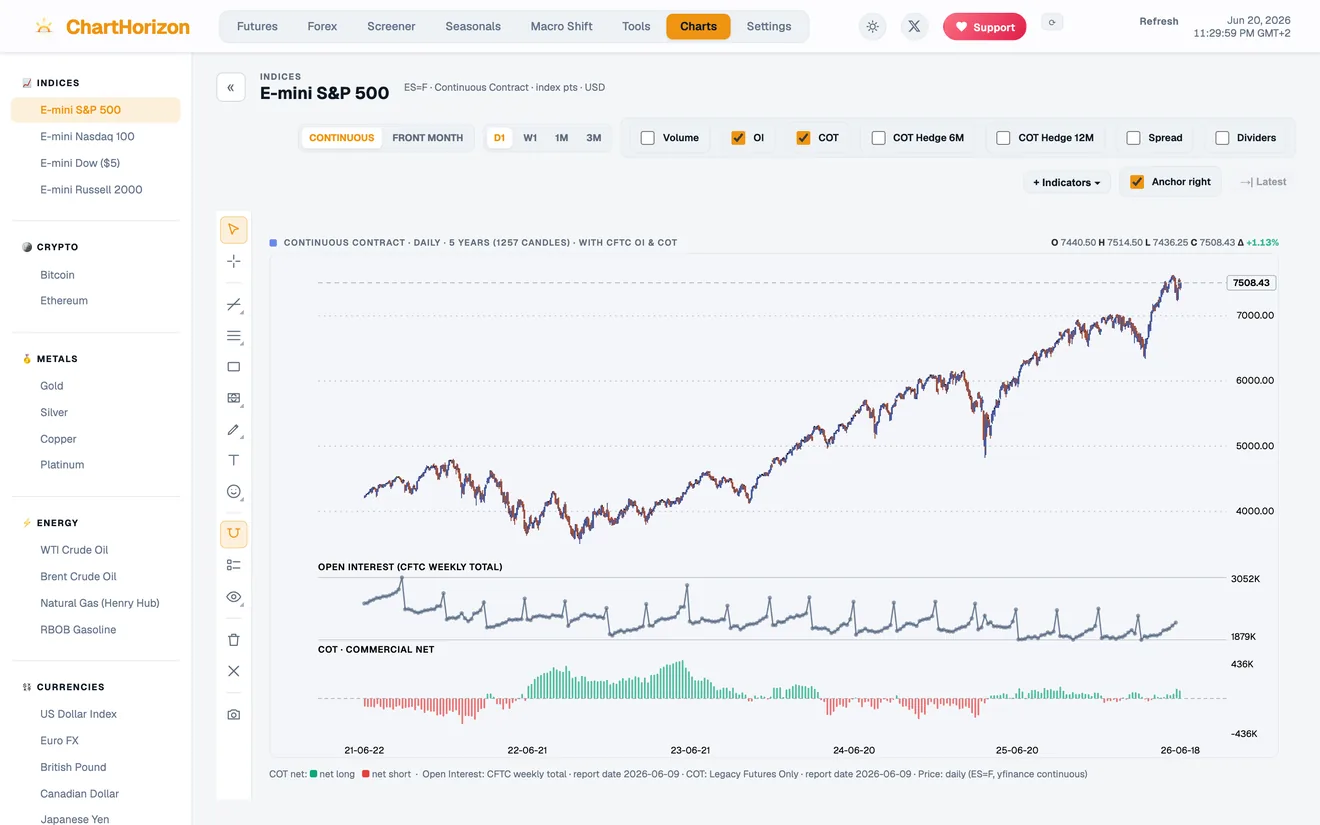
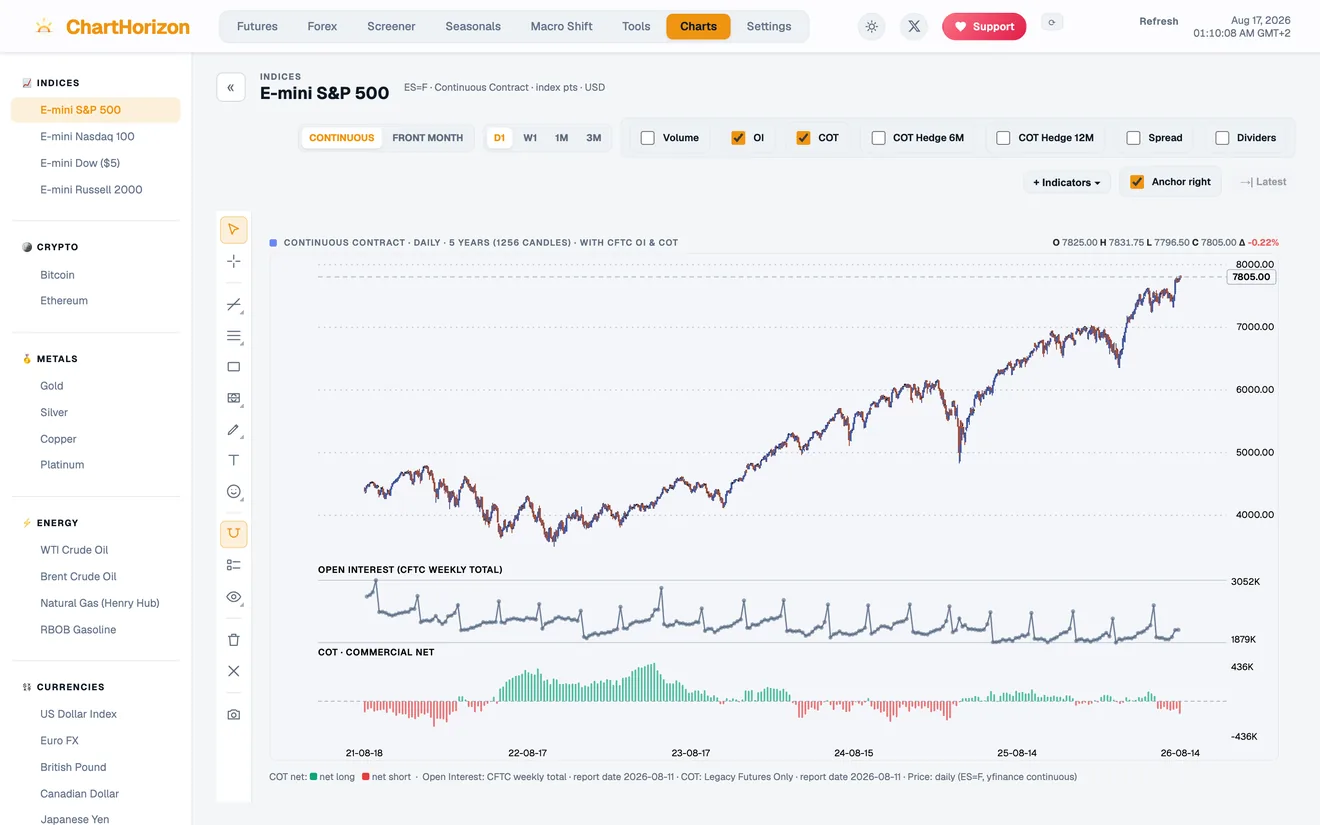
dashboard: shoot the board plates in both editions
The dark edition dimmed the /dashboard/ screenshots by 8% and called it done,
but the dashboard has a dark theme of its own — a lightened photograph of the
light app is not it. Every plate now exists twice, board-<name>.webp and
board-<name>-dark.webp, shot from the app in the theme that matches the sheet.

_includes/board.html emits both <img>s and blog.css shows one per edition.
display:none is load-bearing twice: it keeps the hidden plate out of the
accessibility tree, so the shared alt is never announced twice, and it stops
loading="lazy" from ever fetching it — a reader still downloads exactly one set,
~347 KB, near enough what the single set cost. The brightness(.92) correction
stays for post cards, which still come out of the headless export light-only.

The light set is replaced too. The old files were captured from a June build
with no watchlist rail at a different window width; pairing those with today's
dark shots would have jumped on every toggle. Both sets now come from one
session at one viewport, with the watchlist populated so the rail is product
furniture rather than an empty state, and with the cuts measured against the
layout instead of guessed — the hero and Seasonals end just below their card
(Seasonals used to float in ~280px of empty background), Screener and Macro
bleed off the edge on purpose, Macro far enough that the third chart's title
is still in frame.

Regenerate with ops/website-plates.sh in the monorepo; it shoots both editions
[…]

diff --git a/dashboard.html b/dashboard.html
@@ -64,11 +64,9 @@ dl_linux: ""            # derive from version
 
 <div class="post-body">
 
-<figure class="board board-hero">
-  <img src="{{ '/assets/dashboard/board-futures.webp' | relative_url }}" width="1800" height="1379"
-       alt="The ChartHorizon dashboard reading WTI Crude Oil — a daily candlestick chart stacked over CFTC open interest and the commercials' net position, with the full market list down the left.">
-  <figcaption>The board on one market: price, open interest and the commercials’ net, read together.</figcaption>
-</figure>
+{% include board.html hero=true plate="board-futures" w=1800 h=1174
+   alt="The ChartHorizon dashboard reading WTI Crude Oil — a daily candlestick chart stacked over CFTC open interest and the commercials' net position, with the full market list down the left."
+   caption="The board on one market: price, open interest and the commercials’ net, read together." %}
 
 <p>Every note on this paper is computed upstream, on ChartHorizon's own research
 dashboard: end-of-day futures and CFTC Commitments of Traders data, read against the four
@@ -92,44 +90,36 @@ every market, every light, on demand.</p>
 </div>
 
 <h2>Every market, every light</h2>
-<p>Forty futures markets scored on the four signals at once — season, the commercials'
-positioning, the hedging program and term structure — filterable and ranked, the whole
-desk on a single screen. It's the view that decides which market is worth a note.</p>
-<figure class="board">
-  <img src="{{ '/assets/dashboard/board-screener.webp' | relative_url }}" width="1320" height="1011" loading="lazy"
-       alt="The dashboard's Screener: a table of forty markets across indices, crypto, metals and energy, each tagged bullish, bearish or neutral on seasonals, COT, the hedging program and term structure.">
-  <figcaption>The Screener — every market, every signal, at a glance.</figcaption>
-</figure>
+<p>Every futures market on the board scored on the four signals at once — season, the
+commercials' positioning, the hedging program and term structure — filterable and ranked,
+the whole desk on a single screen. It's the view that decides which market is worth a note.</p>
+{% include board.html plate="board-screener" w=1320 h=1012
+   alt="The dashboard's Screener: a table of every market it covers, across indices, crypto, metals and energy, each tagged bullish, bearish or neutral on seasonals, COT, the hedging program and term structure."
+   caption="The Screener — every market, every signal, at a glance." %}
 
 <h2>The season, isolated</h2>
 <p>Years of the same contract folded onto one calendar, so a market's seasonal tendency
 stands clear against where price actually sits this year — the first of the four lights,
 read on its own terms.</p>
-<figure class="board">
-  <img src="{{ '/assets/dashboard/board-seasonals.webp' | relative_url }}" width="1320" height="1011" loading="lazy"
-       alt="The dashboard's Seasonals view for WTI Crude Oil: several years of average price path drawn over a single January-to-December calendar, with today's position marked.">
-  <figcaption>Seasonals — WTI’s path, year laid over year.</figcaption>
-</figure>
+{% include board.html plate="board-seasonals" w=1320 h=745
+   alt="The dashboard's Seasonals view for WTI Crude Oil: several years of average price path drawn over a single January-to-December calendar, with today's position marked."
+   caption="Seasonals — WTI’s path, year laid over year." %}
 
 <h2>Cross-asset, side by side</h2>
 <p>Three markets on one timeline — the euro against sterling against the dollar; equities
 against bonds — so a divergence between things that usually move together shows up before
 the turn does. Quarter boundaries marked, the lines yours to draw.</p>
-<figure class="board">
-  <img src="{{ '/assets/dashboard/board-macro.webp' | relative_url }}" width="1320" height="972" loading="lazy"
-       alt="The dashboard's Macro Shift view: Euro FX, the British pound and the US Dollar Index stacked on one daily timeline so their paths can be read against each other for divergence.">
-  <figcaption>Macro Shift — markets read against each other.</figcaption>
-</figure>
+{% include board.html plate="board-macro" w=1320 h=1050
+   alt="The dashboard's Macro Shift view: Euro FX, the British pound and the US Dollar Index stacked on one daily timeline so their paths can be read against each other for divergence."
+   caption="Macro Shift — markets read against each other." %}
 
 <h2>Down to the candle</h2>
 <p>Every contract as a full chart — price, open interest and the commercials' net on one
 pane, years deep, with drawing tools to mark up what you see. The same data the notes are
 built on, open to your own read.</p>
-<figure class="board">
-  <img src="{{ '/assets/dashboard/board-charts.webp' | relative_url }}" width="1320" height="825" loading="lazy"
-       alt="The dashboard's full charting view of the E-mini S&P 500: a five-year daily candlestick chart over CFTC open interest and the commercials' net position, with a drawing toolbar.">
-  <figcaption>Charts — the E-mini S&P 500, positioning stacked under price.</figcaption>
-</figure>
+{% include board.html plate="board-charts" w=1320 h=825
+   alt="The dashboard's full charting view of the E-mini S&P 500: a five-year daily candlestick chart over CFTC open interest and the commercials' net position, with a drawing toolbar."
+   caption="Charts — the E-mini S&P 500, positioning stacked under price." %}
 
 {% if released %}
 <p>The board is ready. Pick your platform below — it lives on your machine and opens in

diff --git a/assets/css/blog.css b/assets/css/blog.css
@@ -422,20 +422,37 @@ button.fx-pair:active{transform:translateY(1px)}
 }
 
 /* ---- dark edition: the plates ----
-   Every chart on this site is exported light and baked into a file — post cards from the
-   dashboard's headless export, the /dashboard/ screenshots from the app itself. On navy
-   they arrive as lit panels. A hairline and ~8% off the brightness seats them on the sheet
-   the way a plate sits on newsprint; hover returns the file untouched, so nothing is
-   permanently dimmed and no image is ever read through a filter that hides detail.
-   Deliberately NOT `invert()`: these are candles read by colour, and inverting them turns
-   every up-day red. */
-[data-theme="dark"] :is(.post-body,.board) img{filter:brightness(.92)}
+   Post cards come out of the dashboard's headless export baked light, one file, no dark
+   twin — on navy they arrive as lit panels. A hairline and ~8% off the brightness seats
+   them on the sheet the way a plate sits on newsprint; hover returns the file untouched,
+   so nothing is permanently dimmed and no image is ever read through a filter that hides
+   detail. Deliberately NOT `invert()`: these are candles read by colour, and inverting
+   them turns every up-day red.
+
+   `.plate` is exempt because it needs no correction: the /dashboard/ screenshots are shot
+   twice, in the app's own light and dark themes, and the rule below picks the right one. */
+[data-theme="dark"] :is(.post-body,.board) img:not(.plate){filter:brightness(.92)}
 @media (prefers-reduced-motion:no-preference){
   /* box-shadow is restated because .board img already animates it above and this
      later, more specific rule would otherwise replace that transition outright. */
-  [data-theme="dark"] :is(.post-body,.board) img{transition:filter .2s ease, box-shadow .25s ease}
+  [data-theme="dark"] :is(.post-body,.board) img:not(.plate){transition:filter .2s ease, box-shadow .25s ease}
 }
-[data-theme="dark"] :is(.post-body,.board) img:hover{filter:none}
+[data-theme="dark"] :is(.post-body,.board) img:not(.plate):hover{filter:none}
+
+/* Two plates per figure, one per edition (see _includes/board.html). `display:none` is
+   load-bearing twice over: it keeps the plate that isn't showing out of the accessibility
+   tree, so the shared alt text is never announced twice — and, because a display:none
+   image is never in the viewport, it stops `loading="lazy"` from ever fetching it. The
+   page therefore still downloads exactly one set of screenshots, as it always did.
+   No-JS readers get the light plates, which is right: without JS no data-theme is set
+   and the sheet stays light too.
+
+   All three are written through `.board` on purpose: `.board img` already sets
+   display:block, and a bare `.plate-dark` loses to it on specificity — which shows up as
+   both editions stacked on the light sheet. */
+.board .plate-dark{display:none}
+[data-theme="dark"] .board .plate-light{display:none}
+[data-theme="dark"] .board .plate-dark{display:block}
 
 @media (prefers-reduced-motion:reduce){
   *,*::before,*::after{transition-duration:.01ms !important; animation-duration:.01ms !important}

diff --git a/_includes/board.html b/_includes/board.html
@@ -1,0 +1,23 @@
+{%- comment -%}
+  One screenshot plate of the dashboard, shot in both of the app's own editions.
+
+  The dashboard has a light and a dark theme of its own, so a reader on the night press
+  run gets the dark board rather than a dimmed photograph of the light one. Both plates
+  are emitted; CSS (.plate-light / .plate-dark in blog.css) picks the one that matches
+  the sheet, and `loading="lazy"` means the browser never fetches the other — a
+  display:none image is never in the viewport, so its lazy load never fires. Both carry
+  the same alt: the hidden one is out of the accessibility tree, so it is never read twice.
+
+  Params: plate (basename under /assets/dashboard/, no extension), w, h, alt, caption,
+          hero (truthy for the wide opening plate).
+{%- endcomment -%}
+{%- assign base = '/assets/dashboard/' | append: include.plate -%}
+<figure class="board{% if include.hero %} board-hero{% endif %}">
+  <img class="plate plate-light" src="{{ base | append: '.webp' | relative_url }}"
+       width="{{ include.w }}" height="{{ include.h }}" loading="lazy" decoding="async"
+       alt="{{ include.alt }}">
+  <img class="plate plate-dark" src="{{ base | append: '-dark.webp' | relative_url }}"
+       width="{{ include.w }}" height="{{ include.h }}" loading="lazy" decoding="async"
+       alt="{{ include.alt }}">
+  <figcaption>{{ include.caption }}</figcaption>
+</figure>

diff --git a/CLAUDE.md b/CLAUDE.md
@@ -105,6 +105,14 @@ outbound links stay support/social only.
   no email/waitlist, so **zero third-party requests** stays intact (no `privacy.html` change).
   Screenshots are the product imagery; still **no link to the dashboard source/repo**. Gets a
   `WebPage` JSON-LD branch in `default.html`.
+  **Every plate exists twice** — `board-<name>.webp` and `board-<name>-dark.webp` — because the
+  app has a dark theme of its own and a dimmed light screenshot is not it. `_includes/board.html`
+  emits both `<img>`s and `blog.css` shows one per edition; `loading="lazy"` on a `display:none`
+  image never fires, so a reader still downloads exactly one set. Regenerate them with
+  **`ops/website-plates.sh`** in the monorepo (the dashboard must be serving on :8000) — it
+  shoots both editions from one session at one viewport and refuses to finish if the pair comes
+  out at different pixel sizes, because the page swaps between them on a click and any drift in
+  data or framing reads as a jump. Never hand-replace one edition on its own.
 - **`archive.html`** (`/archive/`) — every post grouped by year, with the same edition dateline as
   the index. Indexed, in the sitemap. **`404.html`** — broadsheet not-found page (`noindex`,
   `sitemap: false`); without it GitHub Pages serves its own GitHub-branded 404, on a site whose
